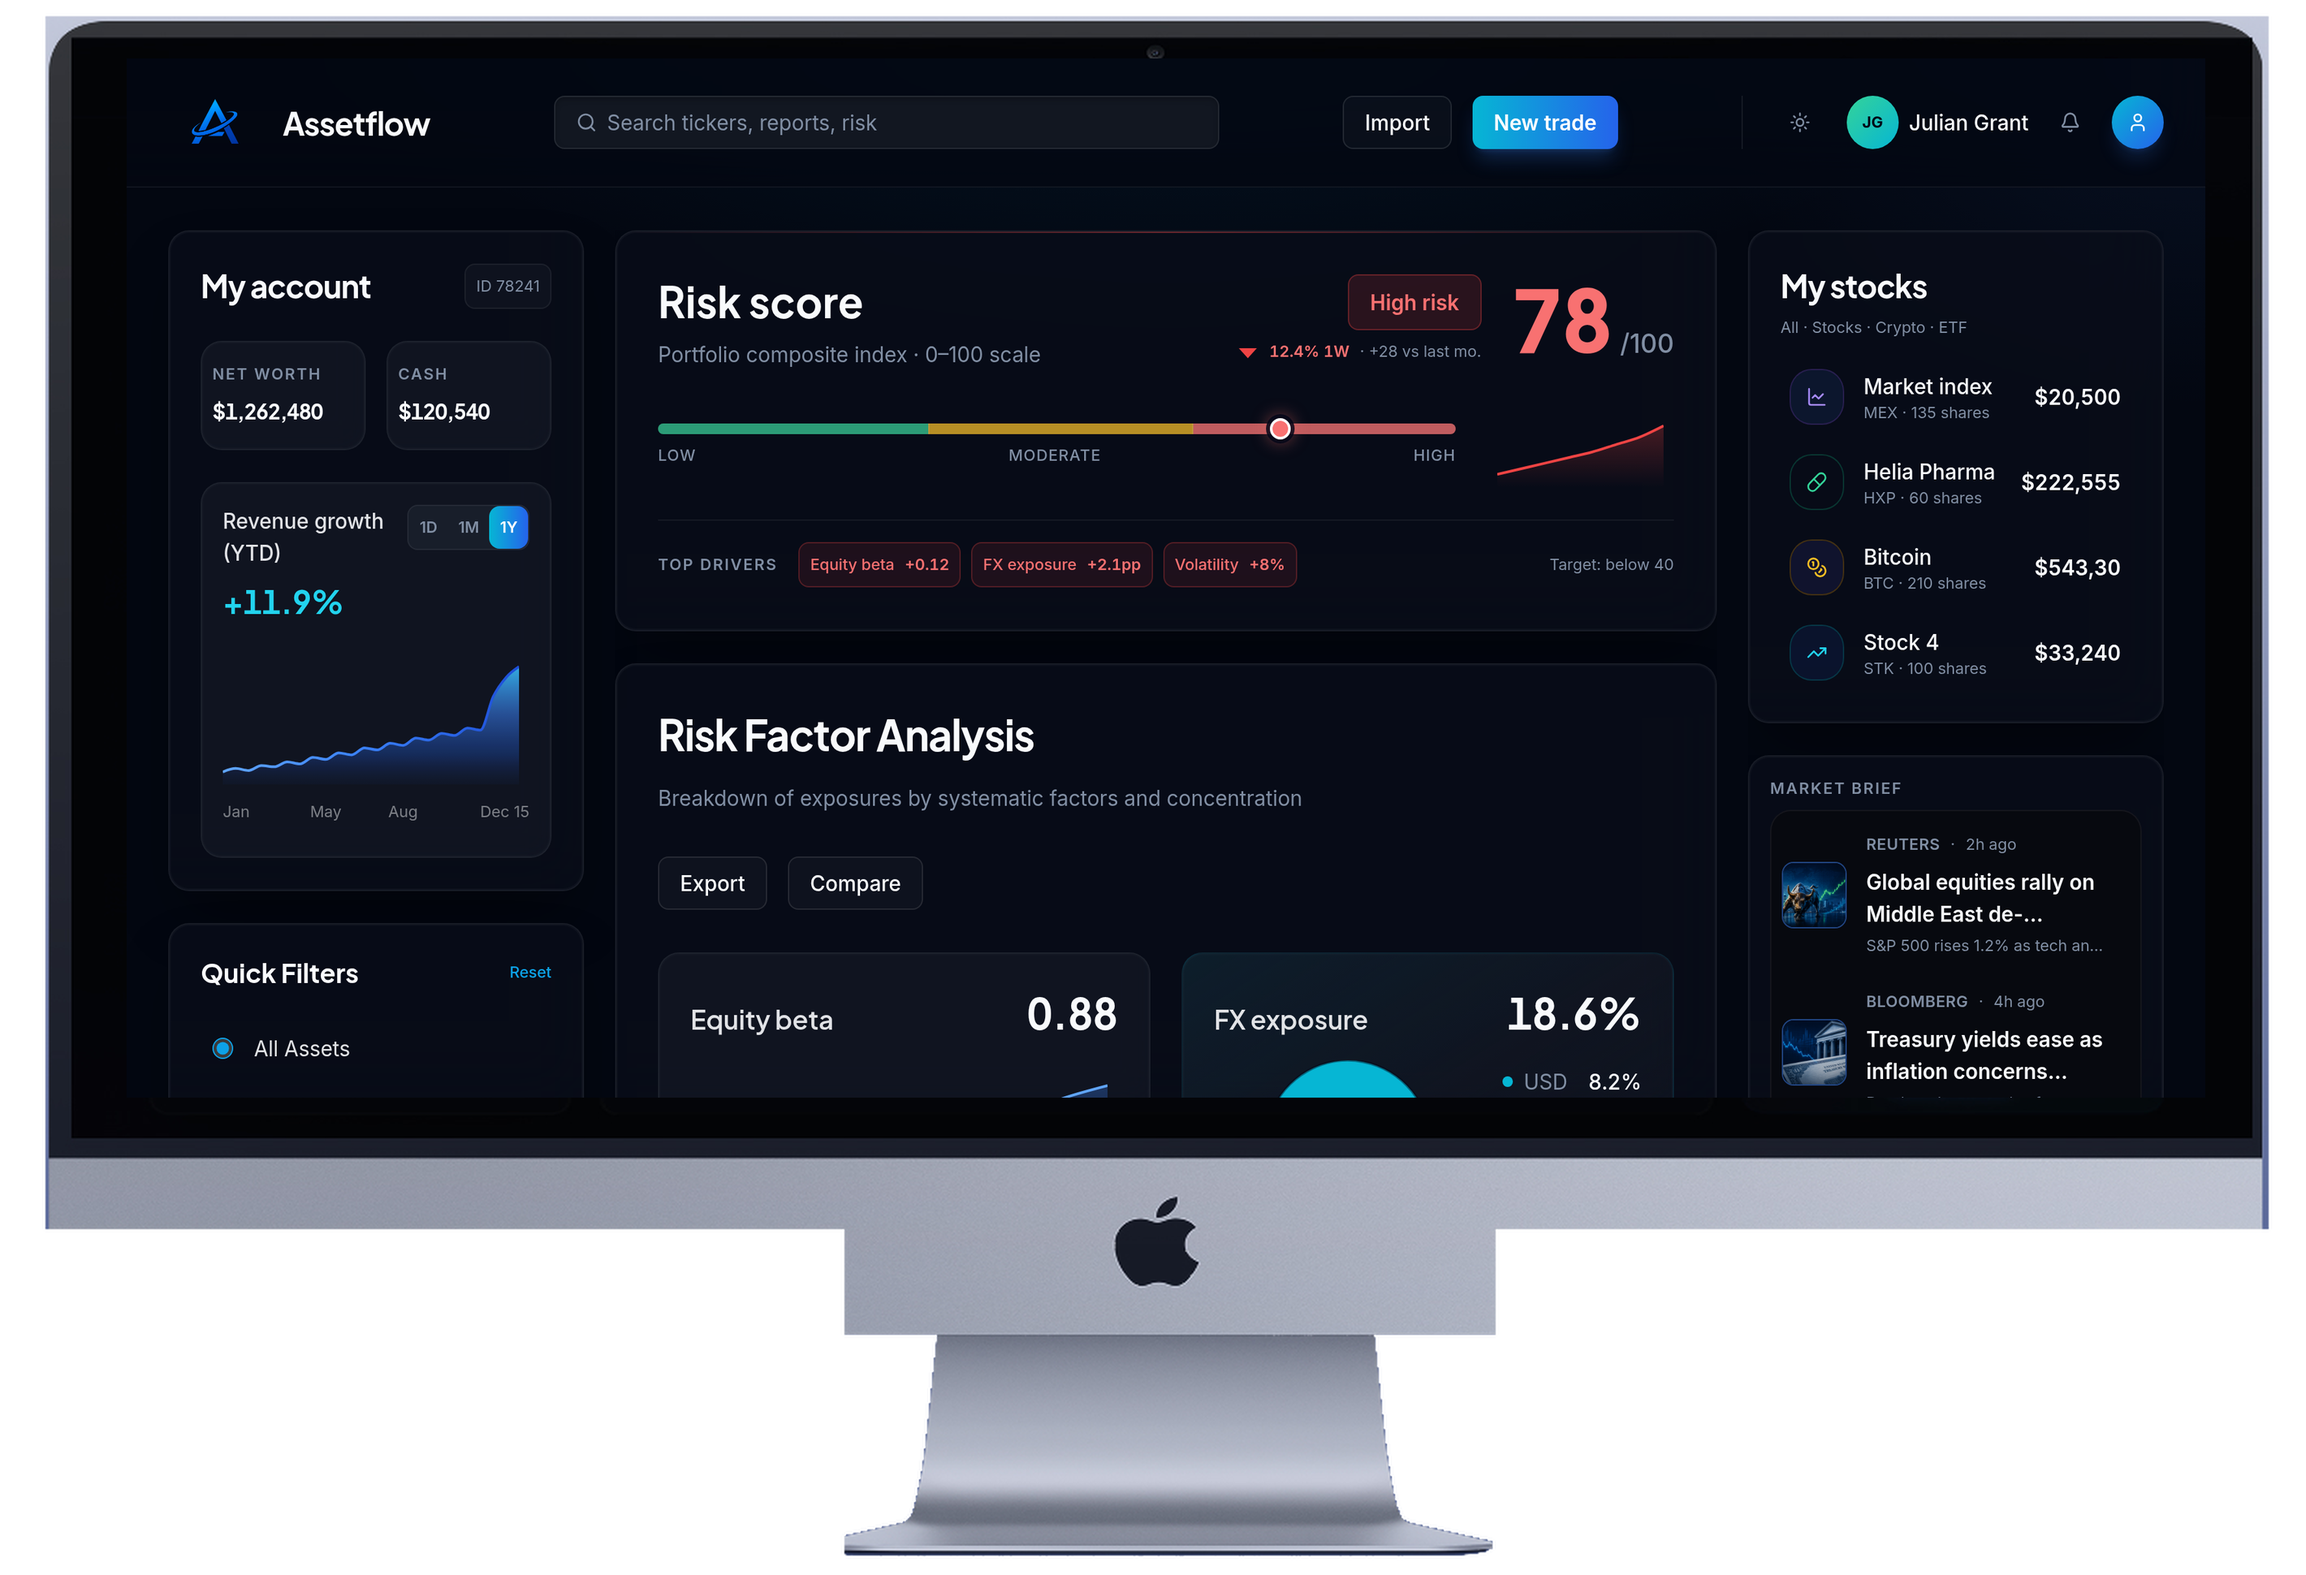
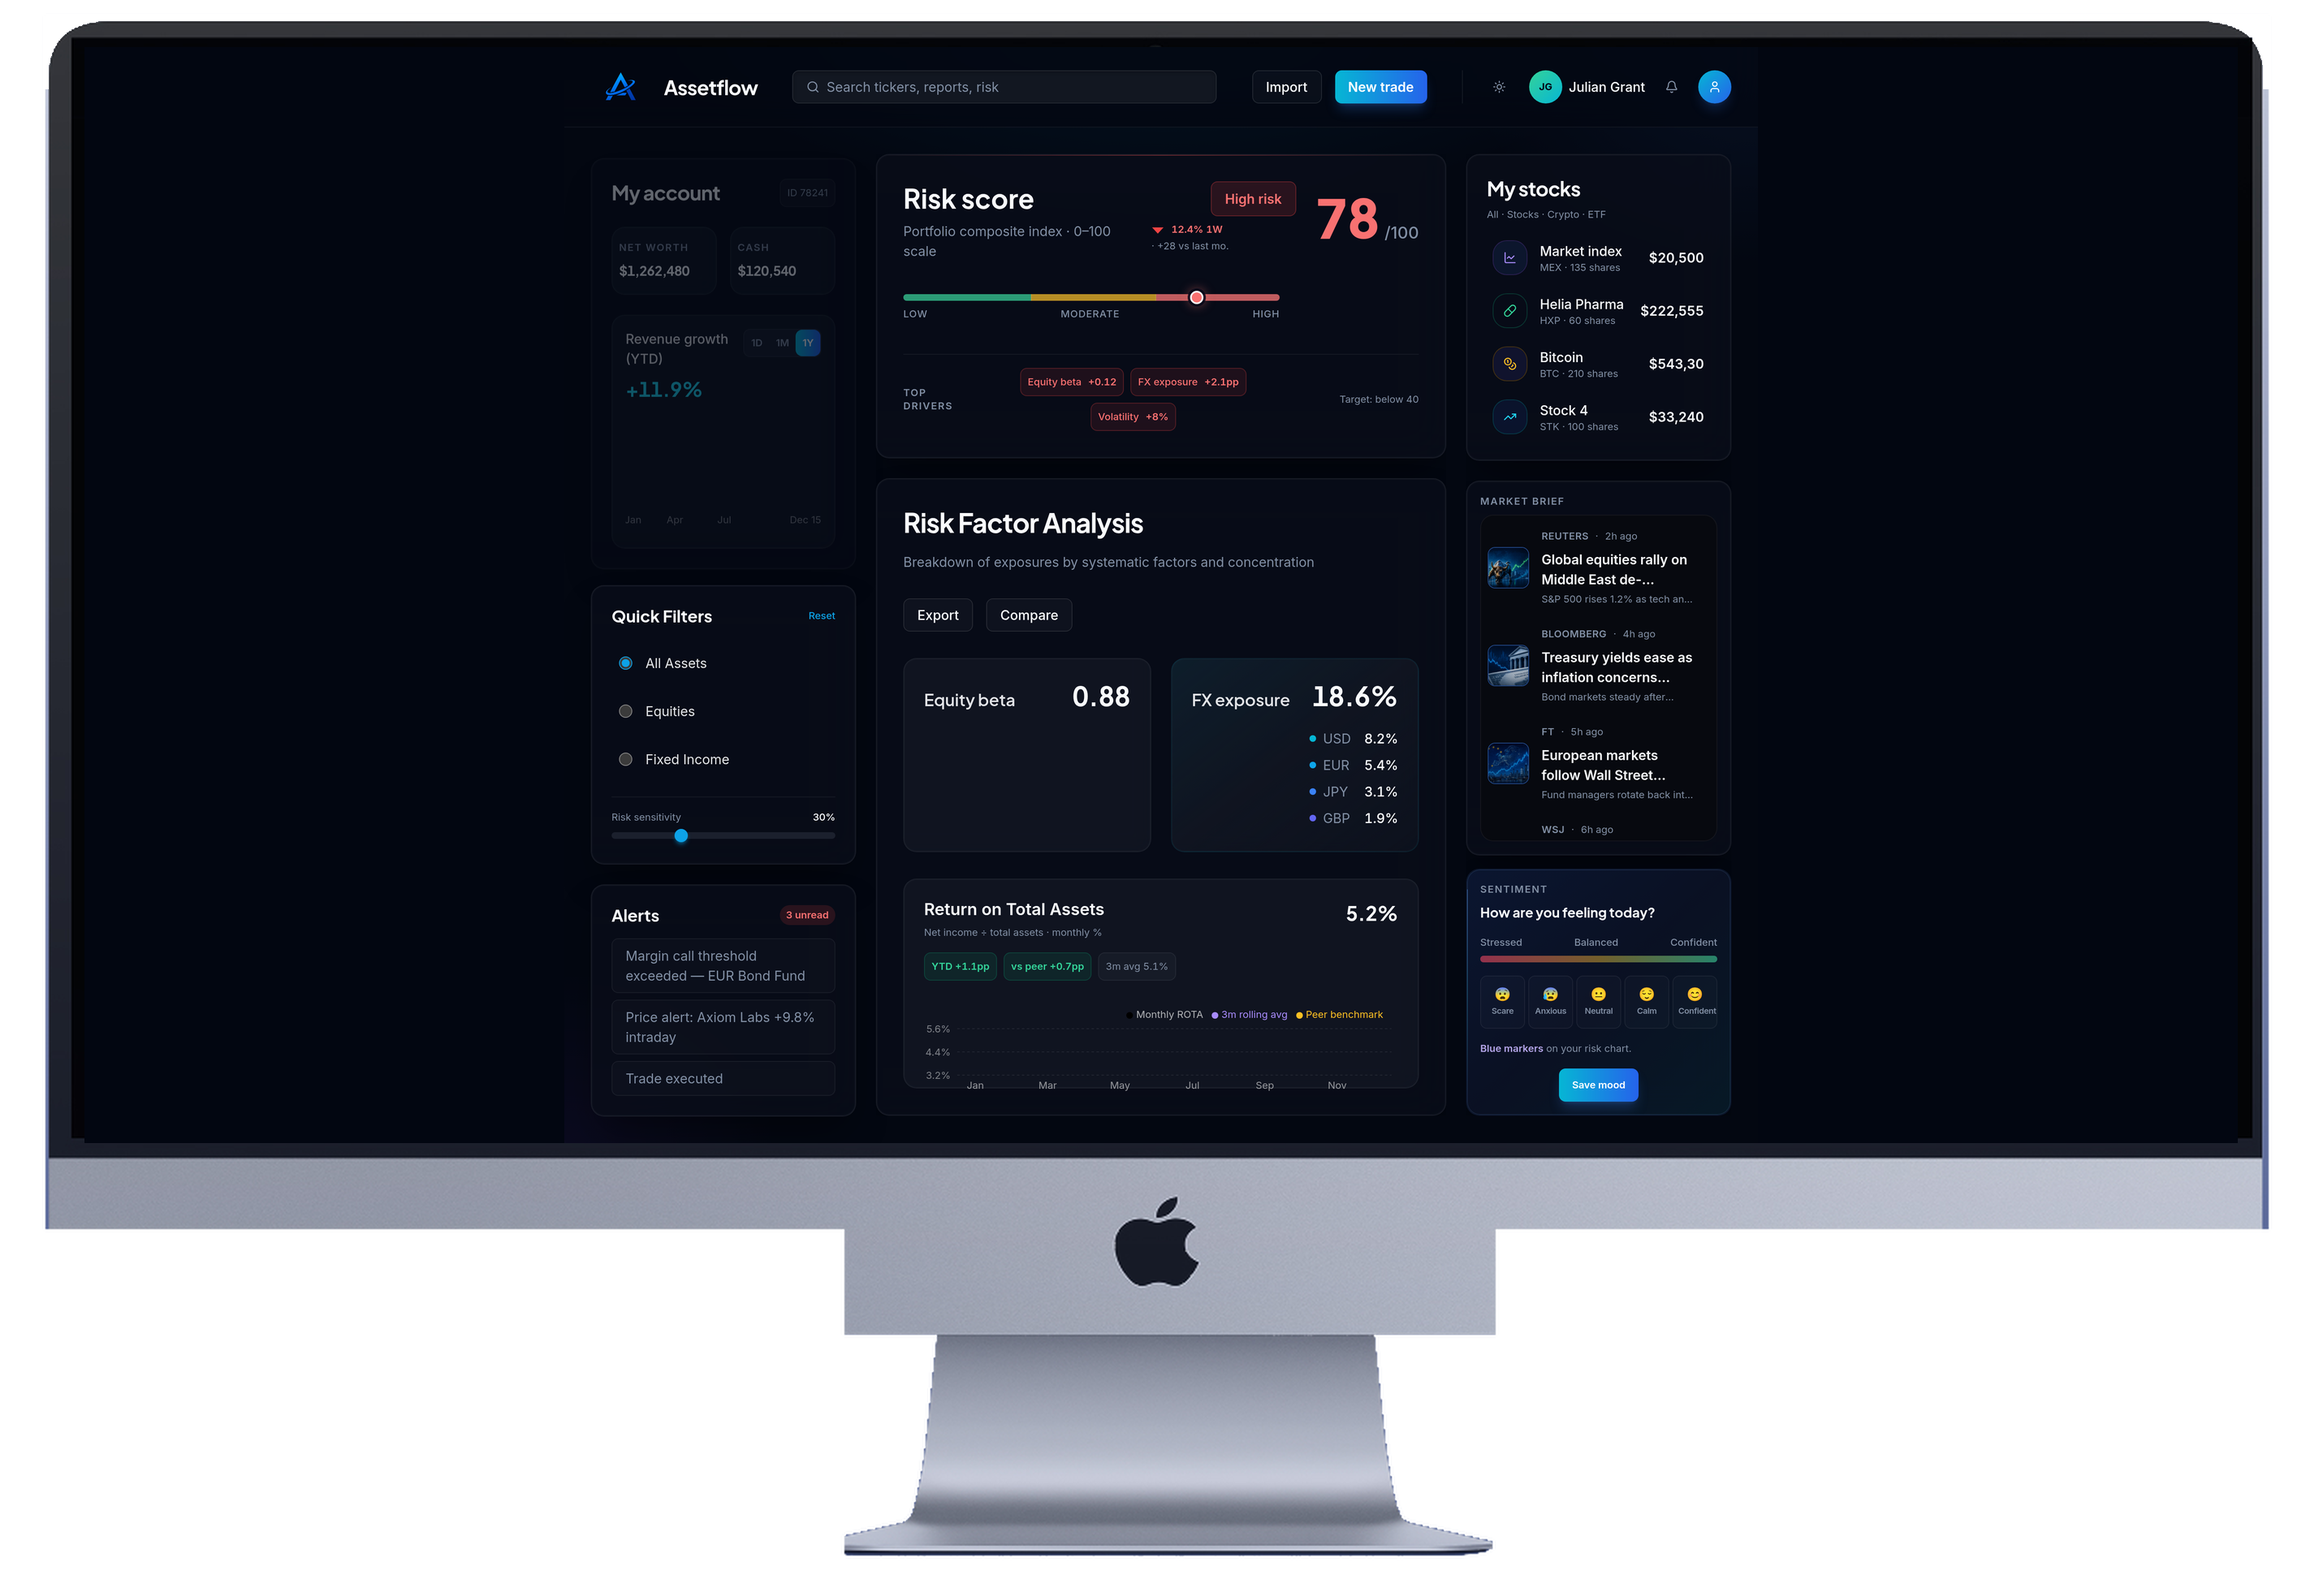
Show the whole dashboard on the iMac.
Fit the full dashboard inside the glass and remove the gray fringe on both upper corners.

diff --git a/client/pages/Portfolio.tsx b/client/pages/Portfolio.tsx
@@ -204,7 +204,7 @@ export default function Portfolio() {
             <img
               src="/imac-front.png"
               alt="Front view of an iMac showing the Assetflow dashboard"
-              className="mx-auto mt-8 w-full max-w-6xl"
+              className="mx-auto mt-8 w-full"
             />
             <div className="mt-8 flex flex-col gap-8 lg:flex-row lg:items-end lg:justify-between">
               <p className="max-w-md text-sm leading-6 text-slate-600">
